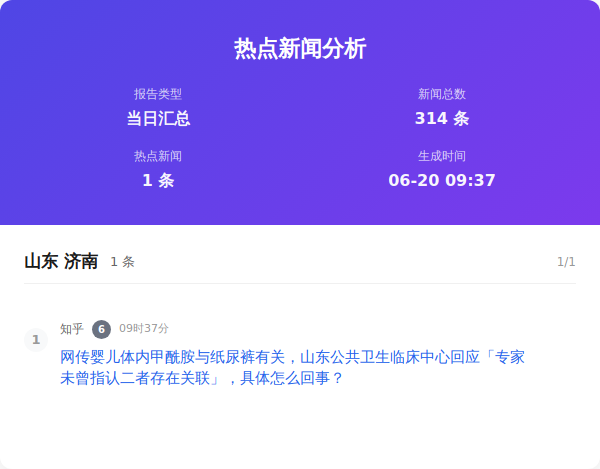
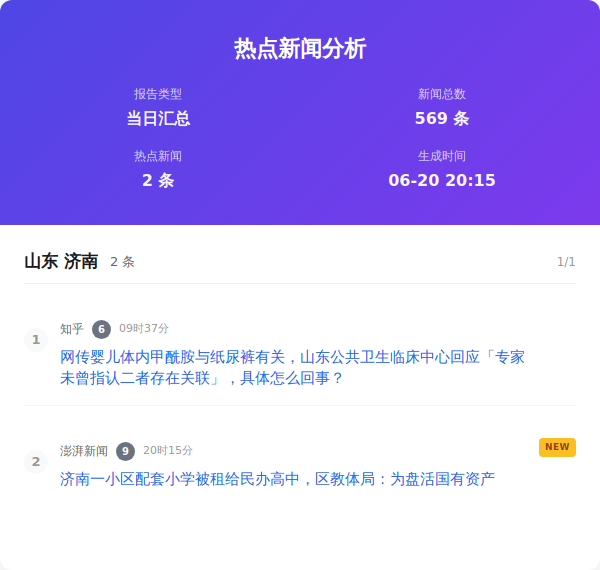
Auto update by GitHub Actions at Sat Jun 20 20:15:57 CST 2026

diff --git a/index.html b/index.html
@@ -357,15 +357,15 @@
                     </div>
                     <div class="info-item">
                         <span class="info-label">新闻总数</span>
-                        <span class="info-value">314 条</span>
+                        <span class="info-value">569 条</span>
                     </div>
                     <div class="info-item">
                         <span class="info-label">热点新闻</span>
-                        <span class="info-value">1 条</span>
+                        <span class="info-value">2 条</span>
                     </div>
                     <div class="info-item">
                         <span class="info-label">生成时间</span>
-                        <span class="info-value">06-20 09:37</span>
+                        <span class="info-value">06-20 20:15</span>
                     </div>
                 </div>
             </div>
@@ -375,7 +375,7 @@
                     <div class="word-header">
                         <div class="word-info">
                             <div class="word-name">山东 济南</div>
-                            <div class="word-count ">1 条</div>
+                            <div class="word-count ">2 条</div>
                         </div>
                         <div class="word-index">1/1</div>
                     </div>
@@ -386,6 +386,16 @@
                                 <span class="source-name">知乎</span><span class="rank-num ">6</span><span class="time-info">09时37分</span>
                             </div>
                             <div class="news-title"><a href="https://www.zhihu.com/question/2051337399167185693" target="_blank" class="news-link">网传婴儿体内甲酰胺与纸尿裤有关，山东公共卫生临床中心回应「专家未曾指认二者存在关联」，具体怎么回事？</a>
+                            </div>
+                        </div>
+                    </div>
+                    <div class="news-item new">
+                        <div class="news-number">2</div>
+                        <div class="news-content">
+                            <div class="news-header">
+                                <span class="source-name">澎湃新闻</span><span class="rank-num ">9</span><span class="time-info">20时15分</span>
+                            </div>
+                            <div class="news-title"><a href="https://m.thepaper.cn/newsDetail_forward_33417039" target="_blank" class="news-link">济南一小区配套小学被租给民办高中，区教体局：为盘活国有资产</a>
                             </div>
                         </div>
                     </div>

diff --git a/output/2026年06月20日/html/当日汇总.html b/output/2026年06月20日/html/当日汇总.html
@@ -357,15 +357,15 @@
                     </div>
                     <div class="info-item">
                         <span class="info-label">新闻总数</span>
-                        <span class="info-value">314 条</span>
+                        <span class="info-value">569 条</span>
                     </div>
                     <div class="info-item">
                         <span class="info-label">热点新闻</span>
-                        <span class="info-value">1 条</span>
+                        <span class="info-value">2 条</span>
                     </div>
                     <div class="info-item">
                         <span class="info-label">生成时间</span>
-                        <span class="info-value">06-20 09:37</span>
+                        <span class="info-value">06-20 20:15</span>
                     </div>
                 </div>
             </div>
@@ -375,7 +375,7 @@
                     <div class="word-header">
                         <div class="word-info">
                             <div class="word-name">山东 济南</div>
-                            <div class="word-count ">1 条</div>
+                            <div class="word-count ">2 条</div>
                         </div>
                         <div class="word-index">1/1</div>
                     </div>
@@ -386,6 +386,16 @@
                                 <span class="source-name">知乎</span><span class="rank-num ">6</span><span class="time-info">09时37分</span>
                             </div>
                             <div class="news-title"><a href="https://www.zhihu.com/question/2051337399167185693" target="_blank" class="news-link">网传婴儿体内甲酰胺与纸尿裤有关，山东公共卫生临床中心回应「专家未曾指认二者存在关联」，具体怎么回事？</a>
+                            </div>
+                        </div>
+                    </div>
+                    <div class="news-item new">
+                        <div class="news-number">2</div>
+                        <div class="news-content">
+                            <div class="news-header">
+                                <span class="source-name">澎湃新闻</span><span class="rank-num ">9</span><span class="time-info">20时15分</span>
+                            </div>
+                            <div class="news-title"><a href="https://m.thepaper.cn/newsDetail_forward_33417039" target="_blank" class="news-link">济南一小区配套小学被租给民办高中，区教体局：为盘活国有资产</a>
                             </div>
                         </div>
                     </div>